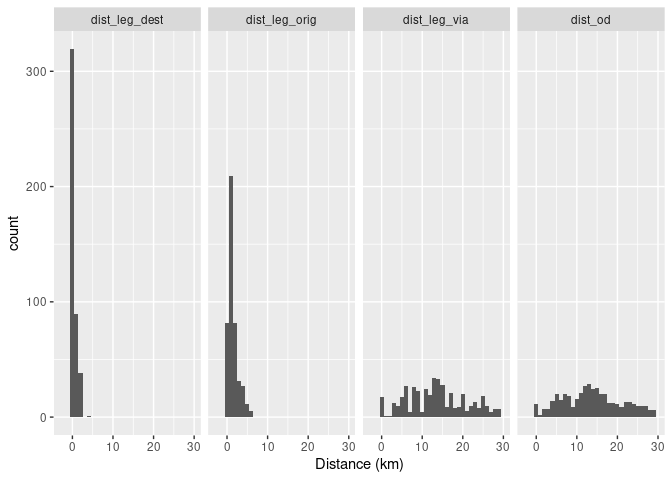
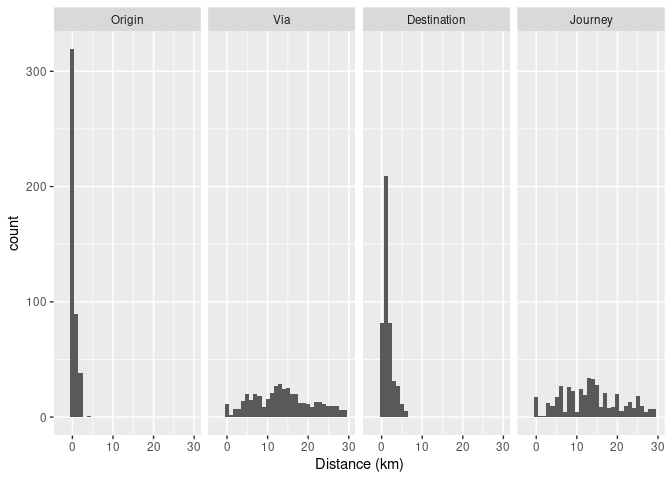
Update rail demo

diff --git a/README.md b/README.md
@@ -4,8 +4,7 @@
 # 1 Estimating cycling potential to rail stations
 
 <!-- badges: start -->
-
-[![.github/workflows/render-rmarkdown.yaml](https://github.com/npct/rail/actions/workflows/render-rmarkdown.yaml/badge.svg)](https://github.com/npct/rail/actions/workflows/render-rmarkdown.yaml)
+<!-- [![.github/workflows/render-rmarkdown.yaml](https://github.com/npct/rail/actions/workflows/render-rmarkdown.yaml/badge.svg)](https://github.com/npct/rail/actions/workflows/render-rmarkdown.yaml) -->
 <!-- badges: end -->
 
 The goal of this repo is to explore methods for calculating cycling
@@ -19,11 +18,11 @@ obtained from a range of sources. We will use open OD data from the 2011
 UK Census to demonstrate the methods. A random sample of OD pairs from
 the national dataset is shown below.
 
-| geo\_code1 | geo\_code2 | all | from\_home | light\_rail | train | bus | taxi | motorbike | car\_driver | car\_passenger | bicycle | foot | other | geo\_name1       | geo\_name2         | la\_1        | la\_2          |
-|:-----------|:-----------|----:|-----------:|------------:|------:|----:|-----:|----------:|------------:|---------------:|--------:|-----:|------:|:-----------------|:-------------------|:-------------|:---------------|
-| E02004474  | E02000916  |   2 |          0 |           0 |     0 |   0 |    0 |         0 |           2 |              0 |       0 |    0 |     0 | Castle Point 002 | Waltham Forest 022 | Castle Point | Waltham Forest |
-| E02000512  | E02003707  |   2 |          0 |           0 |     0 |   0 |    0 |         0 |           2 |              0 |       0 |    0 |     0 | Hillingdon 019   | Wycombe 012        | Hillingdon   | Wycombe        |
-| E02000371  | E02000735  |   1 |          0 |           0 |     0 |   0 |    0 |         0 |           0 |              0 |       1 |    0 |     0 | Hackney 027      | Newham 022         | Hackney      | Newham         |
+| geo_code1 | geo_code2 | all | from_home | light_rail | train | bus | taxi | motorbike | car_driver | car_passenger | bicycle | foot | other | geo_name1        | geo_name2          | la_1         | la_2           |
+|:----------|:----------|----:|----------:|-----------:|------:|----:|-----:|----------:|-----------:|--------------:|--------:|-----:|------:|:-----------------|:-------------------|:-------------|:---------------|
+| E02004474 | E02000916 |   2 |         0 |          0 |     0 |   0 |    0 |         0 |          2 |             0 |       0 |    0 |     0 | Castle Point 002 | Waltham Forest 022 | Castle Point | Waltham Forest |
+| E02000512 | E02003707 |   2 |         0 |          0 |     0 |   0 |    0 |         0 |          2 |             0 |       0 |    0 |     0 | Hillingdon 019   | Wycombe 012        | Hillingdon   | Wycombe        |
+| E02000371 | E02000735 |   1 |         0 |          0 |     0 |   0 |    0 |         0 |          0 |             0 |       1 |    0 |     0 | Hackney 027      | Newham 022         | Hackney      | Newham         |
 
 The case study region of West Yorkshire is used to subset the dataset of
 2402201 OD pairs to records representing trips originating in the region
@@ -71,16 +70,46 @@ stations (right).
 The distribution of total trip distances and trip distances to and from
 stations is shown in Figure <a href="#fig:distances">3.2</a>.
 
-<div class="figure">
+![Figure 3.2: Straight line distances of journey, origin-station
+segments, station-destination segments, and rail sections of
+journey.](README_files/figure-gfm/distances-1.png)
 
-<img src="README_files/figure-gfm/distances-1.png" alt="Straight line distances of journey, origin-station segments, station-destination segments, and rail sections of journey."  />
-<p class="caption">
-Figure 3.2: Straight line distances of journey, origin-station segments,
-station-destination segments, and rail sections of journey.
-</p>
+# 4 Public transport routing
 
-</div>
+The route that people will take is not necessarily the one that goes to
+the closest rail station to their home. It will usually be the route
+that minimises total journey time.
 
-# 4 Transit routing
+The total journey time can be calculated as the sum of the origin,
+public transport stage, and destination stages:
 
-# 5 Discussion
+*T*<sub>*j*</sub> = *T*<sub>*o*</sub> + *T*<sub>*p*</sub> + *T*<sub>*d*</sub>
+
+The time taken for each stage varies depending on the origin and
+destination station. In this example we will focus only on the choice of
+the origin station. We can find the three nearest stations to each
+origin as follows:
+
+``` r
+nearest_stations = nngeo::st_nn(origin, rail_stations, k = 3, progress = FALSE)
+nearest_stations
+#> [[1]]
+#> [1] 1256 1266 1198
+```
+
+Based on this example, we can plot the three route options and show
+their associated times:
+
+![](README_files/figure-gfm/unnamed-chunk-8-1.png)<!-- -->
+
+|      | distance_m | distance_text | duration_s | duration_text |
+|:-----|-----------:|:--------------|-----------:|:--------------|
+| 1-1  |      23684 | 23.7 km       |       2758 | 46 mins       |
+| 1-11 |      21881 | 21.9 km       |       2406 | 40 mins       |
+| 1-12 |      19656 | 19.7 km       |       2296 | 38 mins       |
+
+# 5 Cycle routing
+
+# 6 Scaling the methods
+
+# 7 Discussion
